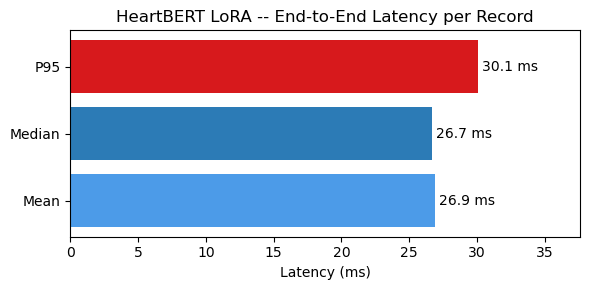
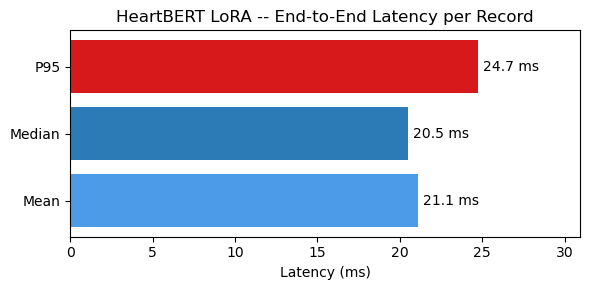
Add uncertainty module and update inference pipeline
Add a new explainability utility (src/explainability/uncertainty.py) to support TTA-style uncertainty estimation and related helpers. Update src/explainability/llm.py and src/inference/pipeline.py to integrate uncertainty estimation and adjust the inference/benchmarking flow. Refresh the inference notebook (notebooks/07_inference_pipeline.ipynb) to document TTA uncertainty and updated FCN/HeartBERT comparisons, and update benchmark results (results/07_inference_pipeline/latency.json and latency_chart.png) with new latency measurements.

diff --git a/src/explainability/uncertainty.py b/src/explainability/uncertainty.py
@@ -1,0 +1,116 @@
+"""
+Test-Time Augmentation (TTA) uncertainty estimation for deterministic ECG models.
+
+Approach
+--------
+Run N forward passes on slightly noise-perturbed copies of the input signal.
+For each class we get a distribution of probabilities across runs.  The std of
+that distribution is the ± uncertainty for that class.
+
+  prediction:  NORM 0.75 +/- 0.03   MI 0.12 +/- 0.01   ...
+
+High per-class std means the sigmoid output shifts noticeably when the signal is
+slightly perturbed -- the model is near the decision boundary for that class.
+
+This is model-agnostic: no retraining, no architecture changes, works with any
+deterministic feedforward network (FCN-Wang, HeartBERT, etc.).
+
+Public API
+----------
+compute_tta_uncertainty(model, x_np, device, n_runs, noise_std)
+    -> (mean_probs, std_probs, uncertainty_scalar, level_string)
+tta_uncertainty_level(uncertainty) -> str
+"""
+from __future__ import annotations
+
+import numpy as np
+import torch
+import torch.nn as nn
+
+# ── Thresholds (calibrated on FCN-Wang / PTB-XL, noise_std=0.05, n_runs=20) ──
+# PTB-XL signals span roughly -2..2 mV; noise_std=0.05 is ~2.5% of full range.
+# Stable predictions (far from boundary) produce mean std < 0.01.
+# Predictions near the 0.5 threshold produce mean std up to ~0.10.
+_LOW_THRESH  = 0.015   # below: trustworthy
+_HIGH_THRESH = 0.040   # above: treat with caution
+
+
+def tta_uncertainty_level(uncertainty: float) -> str:
+    """
+    Convert a TTA uncertainty scalar (mean per-class std) to a quality label.
+
+    Args:
+        uncertainty: mean across per-class probability stds
+
+    Returns:
+        Descriptive string suitable for display and LLM prompts.
+    """
+    if uncertainty < _LOW_THRESH:
+        return 'low - prediction stable under signal perturbations'
+    elif uncertainty < _HIGH_THRESH:
+        return 'moderate - some sensitivity to signal noise detected'
+    else:
+        return 'high - prediction changes with small noise, treat with caution'
+
+
+def compute_tta_uncertainty(
+    model:      nn.Module,
+    x_np:       np.ndarray,
+    device:     torch.device,
+    n_runs:     int   = 20,
+    noise_std:  float = 0.05,
+) -> tuple[np.ndarray, np.ndarray, float, str]:
+    """
+    Estimate prediction uncertainty via Test-Time Augmentation.
+
+    Runs *n_runs* forward passes: one clean pass followed by (n_runs-1) passes
+    with independent Gaussian noise added to the input.
+
+    Returns per-class mean and std probabilities so callers can express results as:
+        class_probability +/- class_std
+
+    The scalar uncertainty (mean of per-class stds) is also returned for summary
+    displays and the human-readable level label.
+
+    Args:
+        model:      trained PyTorch model (eval mode, any deterministic arch)
+        x_np:       preprocessed signal (12, 1000) float32
+        device:     torch device the model lives on
+        n_runs:     total forward passes (including the clean one); default 20
+        noise_std:  std of additive Gaussian noise in signal units (mV);
+                    default 0.05 (~2.5 % of the PTB-XL amplitude range)
+
+    Returns:
+        (mean_probs, std_probs, uncertainty, level) where:
+            mean_probs  -- (n_classes,) float32 ndarray, mean probability per class
+            std_probs   -- (n_classes,) float32 ndarray, std (the +/- per class)
+            uncertainty -- float, mean of std_probs (summary scalar)
+            level       -- human-readable quality label (str)
+    """
+    model.eval()
+
+    x = torch.tensor(x_np, dtype=torch.float32).unsqueeze(0).to(device)
+
+    probs_list: list[np.ndarray] = []
+    with torch.no_grad():
+        # First pass: clean signal
+        logits = model(x)
+        probs_list.append(torch.sigmoid(logits).squeeze(0).cpu().numpy())
+
+        # Subsequent passes: perturbed signal
+        for _ in range(n_runs - 1):
+            noise  = torch.randn_like(x) * noise_std
+            logits = model(x + noise)
+            probs_list.append(torch.sigmoid(logits).squeeze(0).cpu().numpy())
+
+    probs_array = np.stack(probs_list)          # (n_runs, n_classes)
+    mean_probs  = probs_array.mean(axis=0)      # (n_classes,) -- more robust than single pass
+    std_probs   = probs_array.std(axis=0)       # (n_classes,) -- the +/- per class
+    uncertainty = float(std_probs.mean())       # scalar summary
+
+    return (
+        mean_probs.astype(np.float32),
+        std_probs.astype(np.float32),
+        round(uncertainty, 4),
+        tta_uncertainty_level(uncertainty),
+    )

diff --git a/src/inference/pipeline.py b/src/inference/pipeline.py
@@ -103,16 +103,22 @@ class ECGInferencePipeline:
 
     @staticmethod
     def _uncertainty_level(uncertainty: Optional[float]) -> str:
-        """Human-readable uncertainty label based on CFG threshold."""
+        """
+        Human-readable uncertainty label.
+
+        For aleatoric models (has_uncertainty=True) uses CFG thresholds.
+        For deterministic models (uncertainty=None) returns a placeholder;
+        app/model.py replaces this with the real TTA estimate.
+        """
         if uncertainty is None:
-            return 'not computed'
+            return 'N/A (deterministic model)'
         thresh = CFG['explainability']['uncertainty_threshold']
         if uncertainty < thresh * 0.5:
-            return 'low -- signal was clean, result is trustworthy'
+            return 'low - signal was clean, result is trustworthy'
         elif uncertainty < thresh:
-            return 'moderate -- some signal noise detected'
+            return 'moderate - some signal noise detected'
         else:
-            return 'high -- noisy signal, treat result with caution'
+            return 'high - noisy signal, treat result with caution'
 
 
 class HeartBERTPipeline:
@@ -177,7 +183,7 @@ class HeartBERTPipeline:
             'confidence_score':    round(probs.max().item(), 4),
             'uncertainty':         None,
             'raw_logits':          logits[0].tolist(),
-            'uncertainty_level':   'not computed',
+            'uncertainty_level':   'N/A (deterministic model)',
         }
 
     def benchmark(

diff --git a/src/explainability/llm.py b/src/explainability/llm.py
@@ -83,7 +83,11 @@ def build_ecg_prompt(
         superclasses = SUPERCLASSES
 
     probs    = result_dict['class_probabilities']
-    prob_str = '  '.join(f'{c}:{probs[c]:.2f}' for c in superclasses)
+    stds     = result_dict.get('uncertainty_per_class', {})
+    if stds:
+        prob_str = '  '.join(f'{c}:{probs[c]:.2f}+/-{stds[c]:.3f}' for c in superclasses)
+    else:
+        prob_str = '  '.join(f'{c}:{probs[c]:.2f}' for c in superclasses)
 
     if saliency is not None:
         scores    = saliency.mean(axis=1)
